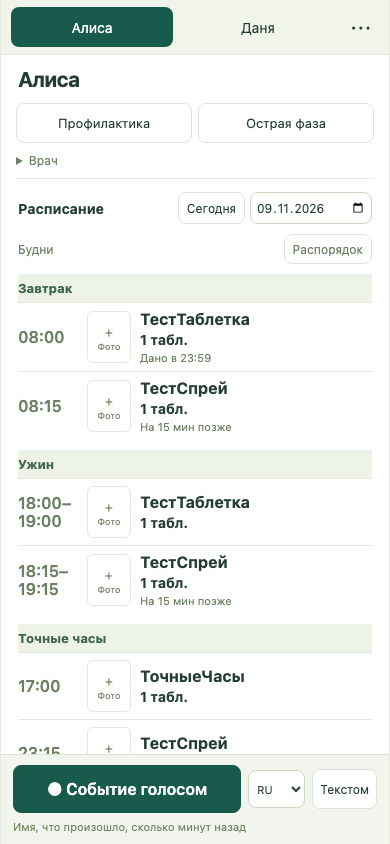
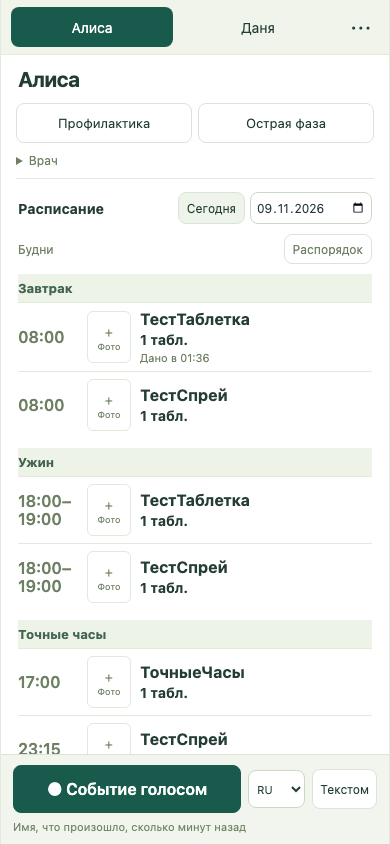
Remove routine offsets and keep prescription-first workflow

diff --git a/site/public/app.js b/site/public/app.js
@@ -57,10 +57,10 @@ function patientSchedule(){
   const items=schedule.items.filter(r=>r.personId===patientId).map(r=>r.anchor?r:{...r,anchor:'clock'}),prn=schedule.prn.filter(r=>r.personId===patientId);
   if(!items.length&&!prn.length&&!state.prescriptions.some(r=>r.personId===patientId&&!r.archived))return '';
   const row=(r,asNeeded=false)=>{const recorded=r.event,status=recorded?({taken:'Дано в '+time(recorded),skipped:'Пропущено',deferred:'Отложено'}[recorded.status]||''):'';
-    const details=[r.anchor==='unassigned'?`${r.slotIndex+1}-й приём`:'',r.relation,r.offsetMinutes?'На '+r.offsetMinutes+' мин позже':'',prescriptionSummary(state.prescriptions.find(x=>x.id===r.rxId)||r).details.replace(/^(?:\d{2}:\d{2}(?: · )?)+/,'')].filter(Boolean).join(' · ');
+    const details=[r.anchor==='unassigned'?`${r.slotIndex+1}-й приём`:'',r.relation,prescriptionSummary(state.prescriptions.find(x=>x.id===r.rxId)||r).details.replace(/^(?:\d{2}:\d{2}(?: · )?)+/,'')].filter(Boolean).join(' · ');
     return `<div class="schedule-row" data-schedule-rx="${r.rxId||r.id}"><time>${asNeeded?'—':e(r.displayTime||r.time||'—').replace('–','–<wbr>')}</time>${medicinePhoto(r.name)}<div><strong>${e(r.name)}</strong><b>${e(prescriptionSummary(r).dose)}</b>${asNeeded?'<span>По необходимости</span>':''}${details?`<span>${e(details)}</span>`:''}${status?`<span>${e(status)}</span>`:''}</div>${r.anchor==='unassigned'?`<button data-act="rx" data-id="${r.rxId}" aria-label="Привязать приём · ${e(r.name)}">Привязать</button>`:''}</div>`;};
   const groups=[...Object.keys(anchors),'clock','unassigned'];
-  const grouped=groups.map(a=>{const rows=items.filter(r=>r.anchor===a).sort((a,b)=>a.slotIndex-b.slotIndex||a.offsetMinutes-b.offsetMinutes);return rows.length?`<section class="schedule-group" data-anchor="${a}"><h3>${e(anchors[a]||(a==='clock'?'Точные часы':'Нужно привязать приём'))}</h3>${rows.map(r=>row(r)).join('')}</section>`:'';}).join('');
+  const grouped=groups.map(a=>{const rows=items.filter(r=>r.anchor===a).sort((a,b)=>a.slotIndex-b.slotIndex);return rows.length?`<section class="schedule-group" data-anchor="${a}"><h3>${e(anchors[a]||(a==='clock'?'Точные часы':'Нужно привязать приём'))}</h3>${rows.map(r=>row(r)).join('')}</section>`:'';}).join('');
   return `<section class="patient-schedule" aria-label="Расписание приёма"><header><h2>Расписание</h2><button id="schedule-today" type="button" aria-pressed="${schedule.date===today()}" ${busy||recording?'disabled':''}>Сегодня</button><input id="schedule-date" type="date" aria-label="Дата расписания" value="${e(schedule.date)}" min="1900-01-01" max="2200-12-31" ${busy||recording?'disabled':''}></header><div class="routine-toolbar"><span>${dayType(schedule.date)==='weekday'?'Будни':'Выходной'}</span><button data-act="routine">Распорядок</button></div>${grouped}${prn.map(r=>row(r,true)).join('')}${!items.length&&!prn.length?'<p class="quiet">На эту дату приёмов нет.</p>':''}</section>`;
 }
 function anchorOptions(value,personal=false){
@@ -163,14 +163,14 @@ function rxForm(id='',suggestion={},documentId=''){
   let mode=r.type==='routine'||!r.type&&!hasClock?'routine':'daily';
   const count=r.routineSlots?.length||(Array.isArray(r.times)?r.times.length:String(r.times||'').split(/[,;\s]+/).filter(Boolean).length)||Number(prescriptionSummary(r).frequency.match(/^([1-9]\d?) /)?.[1])||1;
   const slots=r.routineSlots?structuredClone(r.routineSlots):Array.from({length:count},(_,i)=>({anchor:['first','second','third'][i]||''}));
-  const slotRows=()=>slots.map((s,i)=>`<fieldset class="routine-slot"><legend>${i+1}-й приём</legend><div class="dose-fields"><label>Когда<select data-slot-anchor="${i}">${anchorOptions(s.anchor,true)}</select></label><label>Относительно еды<select data-slot-relation="${i}">${Object.entries(relations).map(([v,l])=>`<option value="${v}" ${v===(s.relation||'')?'selected':''}>${l}</option>`).join('')}</select></label></div><div><label data-slot-clock-label="${i}" ${s.anchor!=='clock'?'hidden':''}>Часы<input type="time" data-slot-clock="${i}" value="${e(s.time||'')}"></label><details><summary>Сдвиг от точки дня</summary><label>Позже, мин<input type="number" min="0" max="120" data-slot-offset="${i}" value="${s.offsetMinutes||0}"></label></details></div></fieldset>`).join('');
+  const slotRows=()=>slots.map((s,i)=>`<fieldset class="routine-slot"><legend>${i+1}-й приём</legend><div class="dose-fields"><label>Когда<select data-slot-anchor="${i}">${anchorOptions(s.anchor,true)}</select></label><label>Относительно еды<select data-slot-relation="${i}">${Object.entries(relations).map(([v,l])=>`<option value="${v}" ${v===(s.relation||'')?'selected':''}>${l}</option>`).join('')}</select></label></div><div><label data-slot-clock-label="${i}" ${s.anchor!=='clock'?'hidden':''}>Часы<input type="time" data-slot-clock="${i}" value="${e(s.time||'')}"></label></div></fieldset>`).join('');
   const routineFields=flexible?`<div class="phase-switch" role="group" aria-label="Привязка расписания"><button type="button" data-schedule-mode="routine">По распорядку</button><button type="button" data-schedule-mode="daily">Точные часы</button></div><div id="routine-slots"><label>Приёмов в день<input id="routine-count" type="number" min="1" max="12" value="${count}"></label><div id="slot-rows">${slotRows()}</div></div>`:'';
   dialog('Назначение врача',`<label>Предписание<select name="carePhase">${Object.entries(phases).map(([v,l])=>`<option value="${v}" ${v===(r.carePhase||p.carePhase||'')?'selected':''}>${l}</option>`).join('')}</select></label><details open><summary>Формулировка врача</summary><p class="source-text">${e(r.sourceText||'')}</p>${field('Условия','conditions',r.conditions,'maxlength="2000"')}${field('Концентрация','strength',r.strength,'maxlength="150"')}</details>${field('Препарат','name',r.name,'required maxlength="200"')}<div class="dose-fields">${field('Доза','dose',r.dose,'inputmode="decimal" required')}<label>Единица<select name="unit">${units.map(u=>`<option ${u===(r.unit||'мл')?'selected':''}>${u}</option>`).join('')}</select></label></div><label>Область дозы<select name="doseScope"><option value="total">Всего</option><option value="each-nostril" ${r.doseScope==='each-nostril'?'selected':''}>В каждую ноздрю</option></select></label>${routineFields}<div id="clock-times">${field('Часы через запятую','times',Array.isArray(r.times)?r.times.join(', '):r.times||'',(r.type==='prn'||r.type==='interval'?'':'required ')+ 'placeholder="По согласованному расписанию"')}</div><div class="dose-fields">${field('Начало','startDate',r.startDate||'','type="date" required')}${field('Окончание · если известно','endDate',r.endDate||'','type="date"')}</div><label class="check"><input type="checkbox" name="confirmed" required>Сверено с назначением врача</label>${footer()}`,async data=>{
     if(flexible&&mode==='routine')captureSlots();
     const type=flexible?mode:r.type;
     const extra=type==='routine'?{routineSlots:slots,legacyTimes:r.legacyTimes||(Array.isArray(r.times)?r.times:[])}:{};
     await api('/prescriptions'+(id?'/'+id:''),{method:id?'PUT':'POST',body:{...r,...data,personId:p.id,type,...extra,timeZone:r.timeZone||tz(),confirmed:data.confirmed==='on',ingredients:Array.isArray(r.ingredients)?r.ingredients.join(' + '):r.ingredients||'',documentId:documentId||r.documentId||'',version:r.version,sourceText:r.sourceText||''}});scheduleDate=data.startDate>today()?data.startDate:data.endDate&&data.endDate<today()?data.endDate:'';modal.close();await refresh();$('.patient-history').scrollTop=0;});
-  function captureSlots(){modal.querySelectorAll('[data-slot-anchor]').forEach((node,i)=>{slots[i]={anchor:node.value,relation:$('[data-slot-relation="'+i+'"]',modal).value,time:$('[data-slot-clock="'+i+'"]',modal).value,offsetMinutes:Number($('[data-slot-offset="'+i+'"]',modal).value)};});}
+  function captureSlots(){modal.querySelectorAll('[data-slot-anchor]').forEach((node,i)=>{slots[i]={anchor:node.value,relation:$('[data-slot-relation="'+i+'"]',modal).value,time:$('[data-slot-clock="'+i+'"]',modal).value};});}
   function bindSlots(){modal.querySelectorAll('[data-slot-anchor]').forEach(node=>node.onchange=()=>{$('[data-slot-clock-label="'+node.dataset.slotAnchor+'"]',modal).hidden=node.value!=='clock';if(['clock','bedtime',''].includes(node.value))$('[data-slot-relation="'+node.dataset.slotAnchor+'"]',modal).value='';});}
   function setMode(value){mode=value;$('#routine-slots',modal).hidden=mode!=='routine';$('#clock-times',modal).hidden=mode==='routine';$('[name="times"]',modal).disabled=mode==='routine';modal.querySelectorAll('[data-schedule-mode]').forEach(b=>b.setAttribute('aria-pressed',String(b.dataset.scheduleMode===mode)));}
   if(flexible){

diff --git a/site/public/routine.js b/site/public/routine.js
@@ -1,14 +1,10 @@
 export const anchors={breakfast:'Завтрак',lunch:'Обед',dinner:'Ужин',secondDinner:'Второй ужин',bedtime:'Перед сном'};
-export const relations={'':'К точке дня',before:'До еды',with:'Во время еды',after:'После еды'};
+export const relations={'':'Не указано',before:'До еды',with:'Во время еды',after:'После еды'};
 export const dayType=date=>[0,6].includes(new Date(date+'T12:00:00Z').getUTCDay())?'weekend':'weekday';
 export const emptyRoutine=()=>Object.fromEntries(['weekday','weekend'].map(d=>[d,{times:{},intakes:['breakfast','lunch','dinner']}]));
 export function slotDetails(slot,profile){
   const index=['first','second','third'].indexOf(slot.anchor);
   const anchor=index<0?slot.anchor:profile.intakes[index];
   const raw=anchor==='clock'?slot.time:profile.times[anchor]||'';
-  const shifted=raw&&Number(slot.offsetMinutes)?raw.split('–').map(t=>{
-    const [h,m]=t.split(':').map(Number),minutes=h*60+m+Number(slot.offsetMinutes);
-    return String(Math.floor(minutes/60)).padStart(2,'0')+':'+String(minutes%60).padStart(2,'0');
-  }).join('–'):raw;
-  return {anchor:anchor||'unassigned',label:anchors[anchor]||(anchor==='clock'?'Точное время':'Не привязан'),displayTime:shifted||'',relation:slot.relation?relations[slot.relation]:'',offsetMinutes:Number(slot.offsetMinutes)||0};
+  return {anchor:anchor||'unassigned',label:anchors[anchor]||(anchor==='clock'?'Точное время':'Не привязан'),displayTime:raw||'',relation:slot.relation?relations[slot.relation]:''};
 }

diff --git a/PROJECT.md b/PROJECT.md
@@ -8,7 +8,9 @@
 
 Открыть **http://macbook-air-5.local** или **http://192.168.0.38** в домашней Wi-Fi сети. На Mac также работает http://medika.localhost. Порты скрыты Caddy, DNS менять не нужно.
 
-Основной ввод — общая кнопка «Событие голосом» внизу. Заранее выбирать пациента или открывать клавиатуру не нужно. Нажать и сказать, например: «Даня, две минуты назад температура 38,2», «Даня получил таблетку парацетамола 250 мг пять минут назад», «Даня получил свечку парацетамола 125 мг минуту назад», «Даня, позывы к рвоте». После паузы около двух секунд запись отправляется сама; кнопка «Отправить» позволяет закончить раньше. Имя в фразе определяет пациента независимо от открытой истории.
+Основной источник назначений — выписка врача: «Врач» → «Выписка» → локальный OCR → сверка извлечённых полей → перенос в расписание с личным распорядком. События вне назначения добавляются отдельно. Голосовой ввод фактов сохранён.
+
+Кнопка «Событие голосом» находится внизу. Заранее выбирать пациента или открывать клавиатуру не нужно. Нажать и сказать, например: «Даня, две минуты назад температура 38,2», «Даня получил таблетку парацетамола 250 мг пять минут назад», «Даня получил свечку парацетамола 125 мг минуту назад», «Даня, позывы к рвоте». После паузы около двух секунд запись отправляется сама; кнопка «Отправить» позволяет закончить раньше. Имя в фразе определяет пациента независимо от открытой истории.
 
 Однозначный факт сразу сохраняется: короткое подтверждение показывает человека, событие, количество и время; «Отменить» доступно 15 секунд без дополнительной формы. Исходная фраза остаётся в истории. При неясной голосовой фразе сначала открывается компактное окно с исходной расшифровкой, причиной и кнопкой «Повторить голосом». Она одним нажатием начинает новую запись без выбора пациента и клавиатуры; неудачная попытка не создаёт события. «Исправить вручную» открывает прежнюю форму. Для текстового ввода ручная сверка сохраняется; голосовой диалог уточнений — фаза 2. Разбор фото/назначений по-прежнему требует ручной сверки.
 
@@ -28,7 +30,7 @@
 
 Отдельная страница **https://macbook-air-5.local/voice-lab** (также https://192.168.0.38/voice-lab). Доступна из «⋯ → Проверка голоса» и по внешней ссылке из чата. Для микрофона нужен тот же доверенный HTTPS-сертификат, что у основного приложения.
 
-Выбрать одну из шести фраз или «Своя фраз����» → нажать «Записать голос» → прочитать → нажать «Сохранить запись». Паузы не обрывают запись; предел 45 секунд. Можно загрузить WAV/M4A/AIFF. Сохранённый WAV доступен для прослушивания и скачивания. Выбрать варианты и нажать «Сравнить выбранные». По умолчанию — Whisper Small + Whisper Medium → Sol; отдельные Whisper Small → Terra и Whisper Medium → Terra, дополнительно доступны Whisper Small → Sol, Whisper Medium → Sol и Whisper Small → Luna, все модели смысла на low. Whisper Base исключён из рабочих вариантов и отклоняется API. Прямое аудио Sol не включено, поскольку предыдущие пробы не дали полезного разбора.
+Выбрать одну из шести фраз или «Своя фраз������» → нажать «Записать голос» → прочитать → нажать «Сохранить запись». Паузы не обрывают запись; предел 45 секунд. Можно загрузить WAV/M4A/AIFF. Сохранённый WAV доступен для прослушивания и скачивания. Выбрать варианты и нажать «Сравнить выбранные». По умолчанию — Whisper Small + Whisper Medium → Sol; отдельные Whisper Small → Terra и Whisper Medium → Terra, дополнительно доступны Whisper Small → Sol, Whisper Medium → Sol и Whisper Small → Luna, все модели смысла на low. Whisper Base исключён из рабочих вариантов и отклоняется API. Прямое аудио Sol не включено, поскольку предыдущие пробы не дали полезного разбора.
 
 Каждому варианту подаётся один и тот же сохранённый WAV; SHA256 виден на странице и в результате. Для одинакового Whisper расшифровка общая, для разных моделей смысла сравнивается её обработка. В каждом результате два текстовых поля: «Распознал Whisper» — исходная расшифровка без исправлений, «Поняла модель» — связное представление возвращённых моделью полей (пациент, событие, препарат/количество/содержание и время; неясности указаны явно). Оба поля доступны для выделения/копирования, высота подстраивается под текст. Также показаны структурированные поля и задержки. Сверка с выбранной фразой не передаётся моделям; пользователь может отдельно поставить «Верно»/«Ошибка». Для своей фразы автоматического эталона нет. Время «назад» всегда считается от момента записи.
 
@@ -69,7 +71,7 @@
 
 ## Фото упаковки и препарата
 
-Рядом с названием лекарства в назначениях и истории показа��о превью 44 × 52 пикселя самого флакона/блистера. По нажатию открываются два снимка: упаковка и препарат. По точному названию или известному русскому/латинскому написанию автоматически выбирается локальное справочное фото: Rinofluimucil, Neladex-NS, Nasacort, Elizium, Zespira, Kagocel. Файлы и ссылки на источники перечислены в `reports/medicine-image-sources.json`; суммарно около 156 КБ. Внешних запросов при просмотре нет. Насакорт на справочном фото — 55 мкг/доза, в исходной выписке — 50; отличие явно показано в окне фото. Фото не меняет назначение.
+Рядом с названием лекарства в назначениях и истории п��каза��о превью 44 × 52 пикселя самого флакона/блистера. По нажатию открываются два снимка: упаковка и препарат. По точному названию или известному русскому/латинскому написанию автоматически выбирается локальное справочное фото: Rinofluimucil, Neladex-NS, Nasacort, Elizium, Zespira, Kagocel. Файлы и ссылки на источники перечислены в `reports/medicine-image-sources.json`; суммарно около 156 КБ. Внешних запросов при просмотре нет. Насакорт на справочном фото — 55 мкг/доза, в исходной выписке — 50; отличие явно показано в окне фото. Фото не меняет назначение.
 
 Нажать превью или «＋ Фото» → выбрать один-два своих снимка. При двух снимках первый — упаковка, второй — флакон/тюбик/ампула/блистер; при одном — сам препарат. Второй используется в превью. Они заменяют справочный пример для этого названия у всех членов семьи. Для общего названия «Парацетамол свечи» конкретная упаковка не угадывается. Непривязанные названия также получают кнопку загрузки. Файлы JPEG/PNG/WebP сначала уменьшаются браузером, затем локальным `sips`: до 320 пикселей и 32 КБ каждый. Один серверный запрос обработки одновременно, без очереди и повторов. Свои изображения хранятся в закрытой SQLite и включаются в резервную копию v4; старые копии без этого раздела поддерживаются. Автопоиск упаковок для любых новых названий в интернете не реализован.
 
@@ -87,6 +89,9 @@
 
 У пациента есть два распорядка — будни и выходные. Точки: завтрак, обед, ужин, второй ужин и перед сном. Часы допускают точное время, диапазон или пустое значение. Кнопка «Распорядок» расположена над расписанием и в меню пациента. Первый, второй и третий приёмы можно связать с разными точками у разных людей; общий вариант — завтрак, обед и ужин. В детских профилях третий оставлен без общей привязки и выбирается для каждого препарата. Каждый препарат может переопределить эту привязку, включая точное время. До/во время/после еды — отдельное явное условие, оно не возникает от одной группировки. Минуты до/после еды автоматически не вычисляются.
 
-В карточке назначения есть «По распорядку» / «Точные часы». Кратность не означает равные интервалы. Интервальные, разовые курсы и приём по необходимости сохраняют прежнюю логику. Точные врачебные часы не конвертируются автоматически. В расписании — компактные группы с названием, дозой, временем и отметкой факта. Неизвестный приём виден в «Нужно привязать приём»; он не исчезает из плана.
+В карточке назначения есть «По распорядку» / «Точные часы». Кратность не означает равные интервалы. Интервальные, разовые курсы и приём по необходимости сохраняют прежнюю логику. Точные врачебные часы не конвертируются автоматически. В расписании — компактные групп�� с названием, дозой, временем и отметкой факта. Неизвестный приём виден в «Нужно привязать приём»; он не исчезает из плана.
 
 Ключ факта распорядка привязан к курсу, дате и номеру приёма. Смена часов не создаёт второй факт и не переписывает уже сохранённое время. При переносе прежних курсов legacyTimes связывает старые отметки с новыми слотами. Backup v4 сохраняет оба вида ключей и пустое время. Тесты: 36 unit/API, общий canary и `site/scripts/routine-canary.mjs`; последний проверяет на одном синтетическом приложении пять размеров, личные будни/выходные, диапазоны, второй ужин, неизвестный третий, отмену редактирования, сохранение старых фактов, новые отметки, перезапуск и полное восстановление. Отчёты: `reports/routine-canary.json`, `reports/routine-live.json`. Физический iPad не проверен.
+
+
+Упрощение 9 ноября: удалены настройка сдвига от точки дня, подписи «на N минут позже» и сам расчёт сдвига. Старое поле offsetMinutes игнорируется и не переносится в новые записи. Врачебная последовательность остаётся исходным текстом, без собственного механизма будильников. Фото, OCR, назначения, ручная сверка и фактический журнал сохранены.

diff --git a/reports/approach-notes.md b/reports/approach-notes.md
@@ -30,3 +30,6 @@
 
 
 Распорядок: canary обнаружил, что прежний backup опускал пустое поле time, поэтому восстановленный факт без точного часа отличался от сохранённого. Перенос рабочих курсов остановлен до исправления. Причина — проверка истинности вместо наличия поля в backup.mjs. Теперь пустое значение сохраняется; защита — глубокое сравнение исходных и восстановленных events вместе с ключами распорядка. Минимальный полный прогон и затем общий canary прошли до миграции рабочих данных.
+
+
+9 ноября, упрощение: настройка произвольного сдвига была добавлена без потребности пользователя и перегрузила сценарий. Пользователь её отклонил. Удалены UI, вычисление минут и запись параметра; старые данные принимаются без возврата этой функции. Исходное указание врача о последовательности сохранено текстом. Защита — canary проверяет отсутствие контрола, unit-проверка доказывает, что старое поле больше не сдвигает часы. Приоритет продукта: рецепт/OCR → сверка → личный распорядок; факты вне назначения — отдельно. Голос не удалён. Общее правило не менялось.
